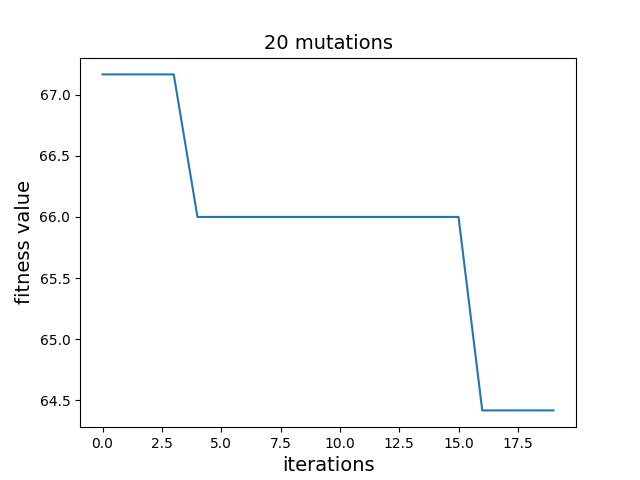
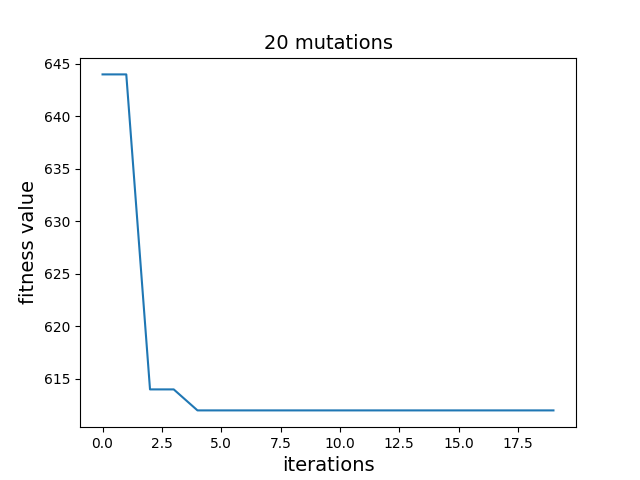
price difference corretction

diff --git a/fitness_function_helpers.py b/fitness_function_helpers.py
@@ -35,11 +35,13 @@ def font_price(feature):
 
 def price_difference(price, preferred_price):    
 
+    return 10*abs(price - preferred_price)
+
     #escape edge cases => max value get here is 10
-    if(price == preferred_price or (abs(price - preferred_price) < 1) ):
-        return 10
-    else:
-        return 10*abs(1/(abs(price - preferred_price)))
+    # if(price == preferred_price or (abs(price - preferred_price) < 1) ):
+    #     return 10
+    # else:
+    #     return 10*abs(1/(abs(price - preferred_price)))
 
 def preference_score(book,preferences):
     book = "".join(book)

diff --git a/main.py b/main.py
@@ -9,14 +9,14 @@ books_data = get_books_csv_data()
 groups_data = get_groups_csv_data()
 
 #population size must be at least 2 
-pop = Population(20,groups_data,books_data)
+pop = Population(100,groups_data,books_data)
 
 iterations = []
 best_fitness_val = []
 
 for i in range(20):
     iterations.append(i)
-    pop.mutation(0.9)
+    pop.mutation(0.3)
     best_fitness_val.append(pop.best_genotype[1])
 
 plt.plot(iterations,best_fitness_val)
